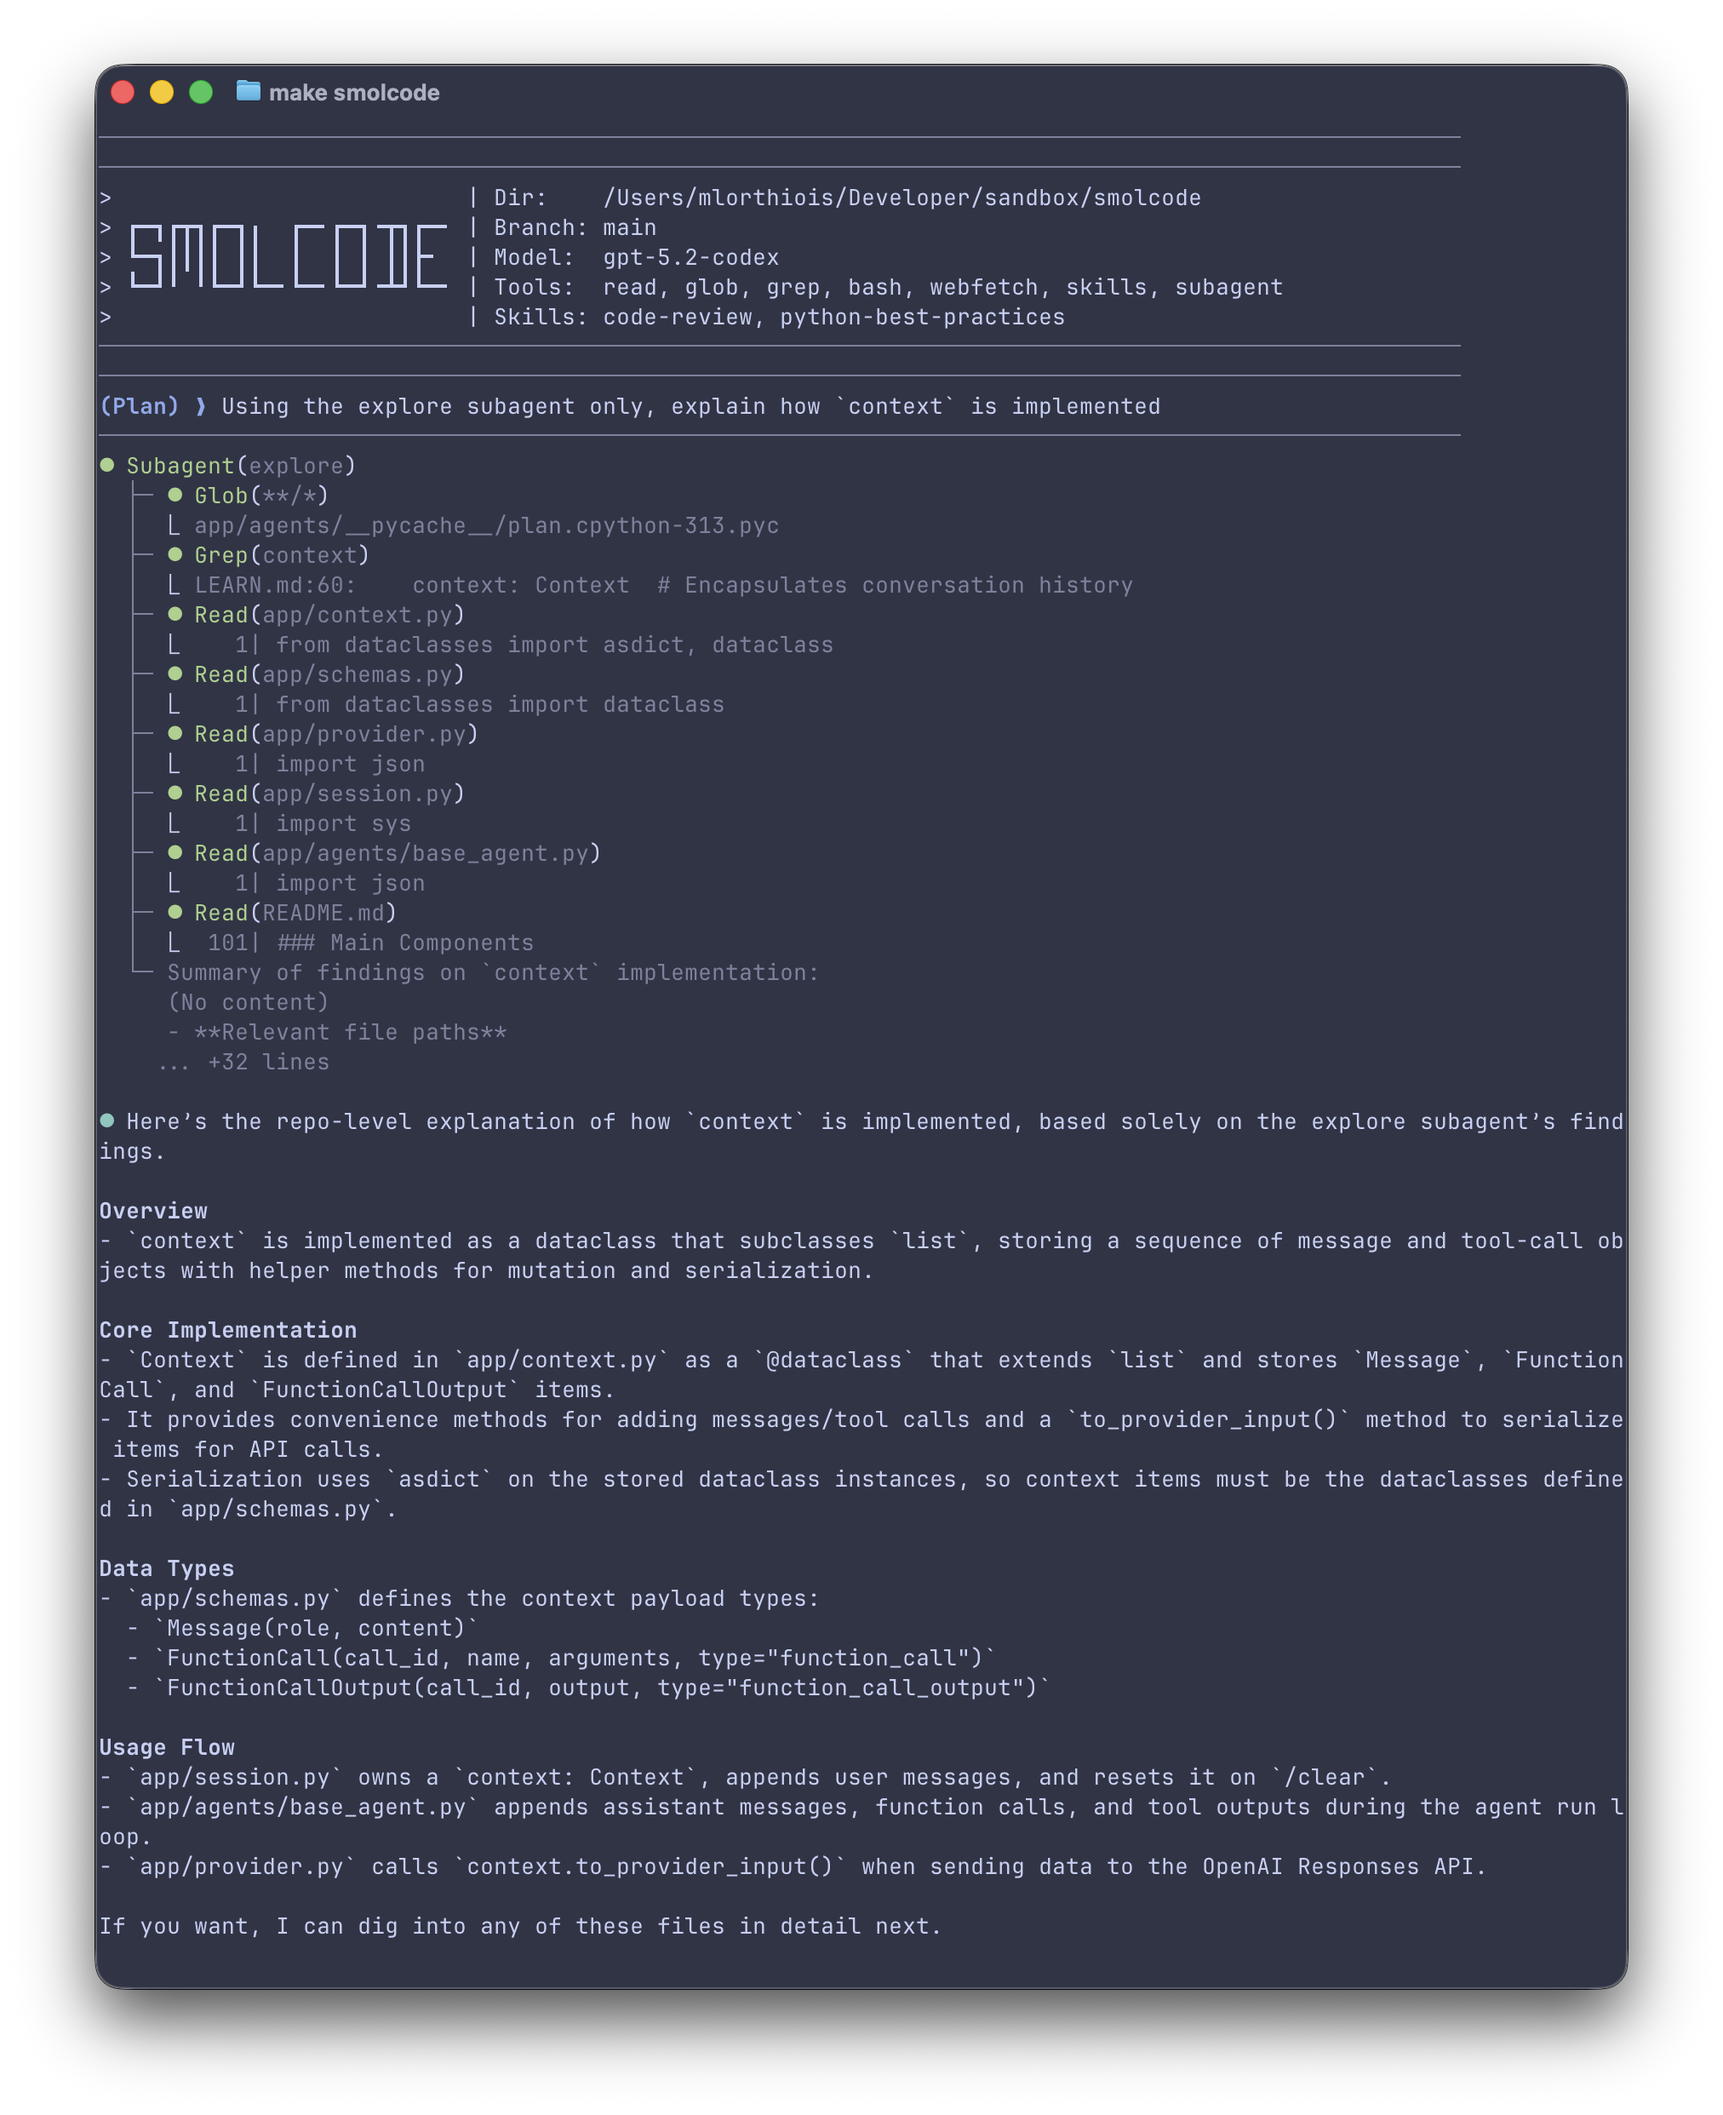
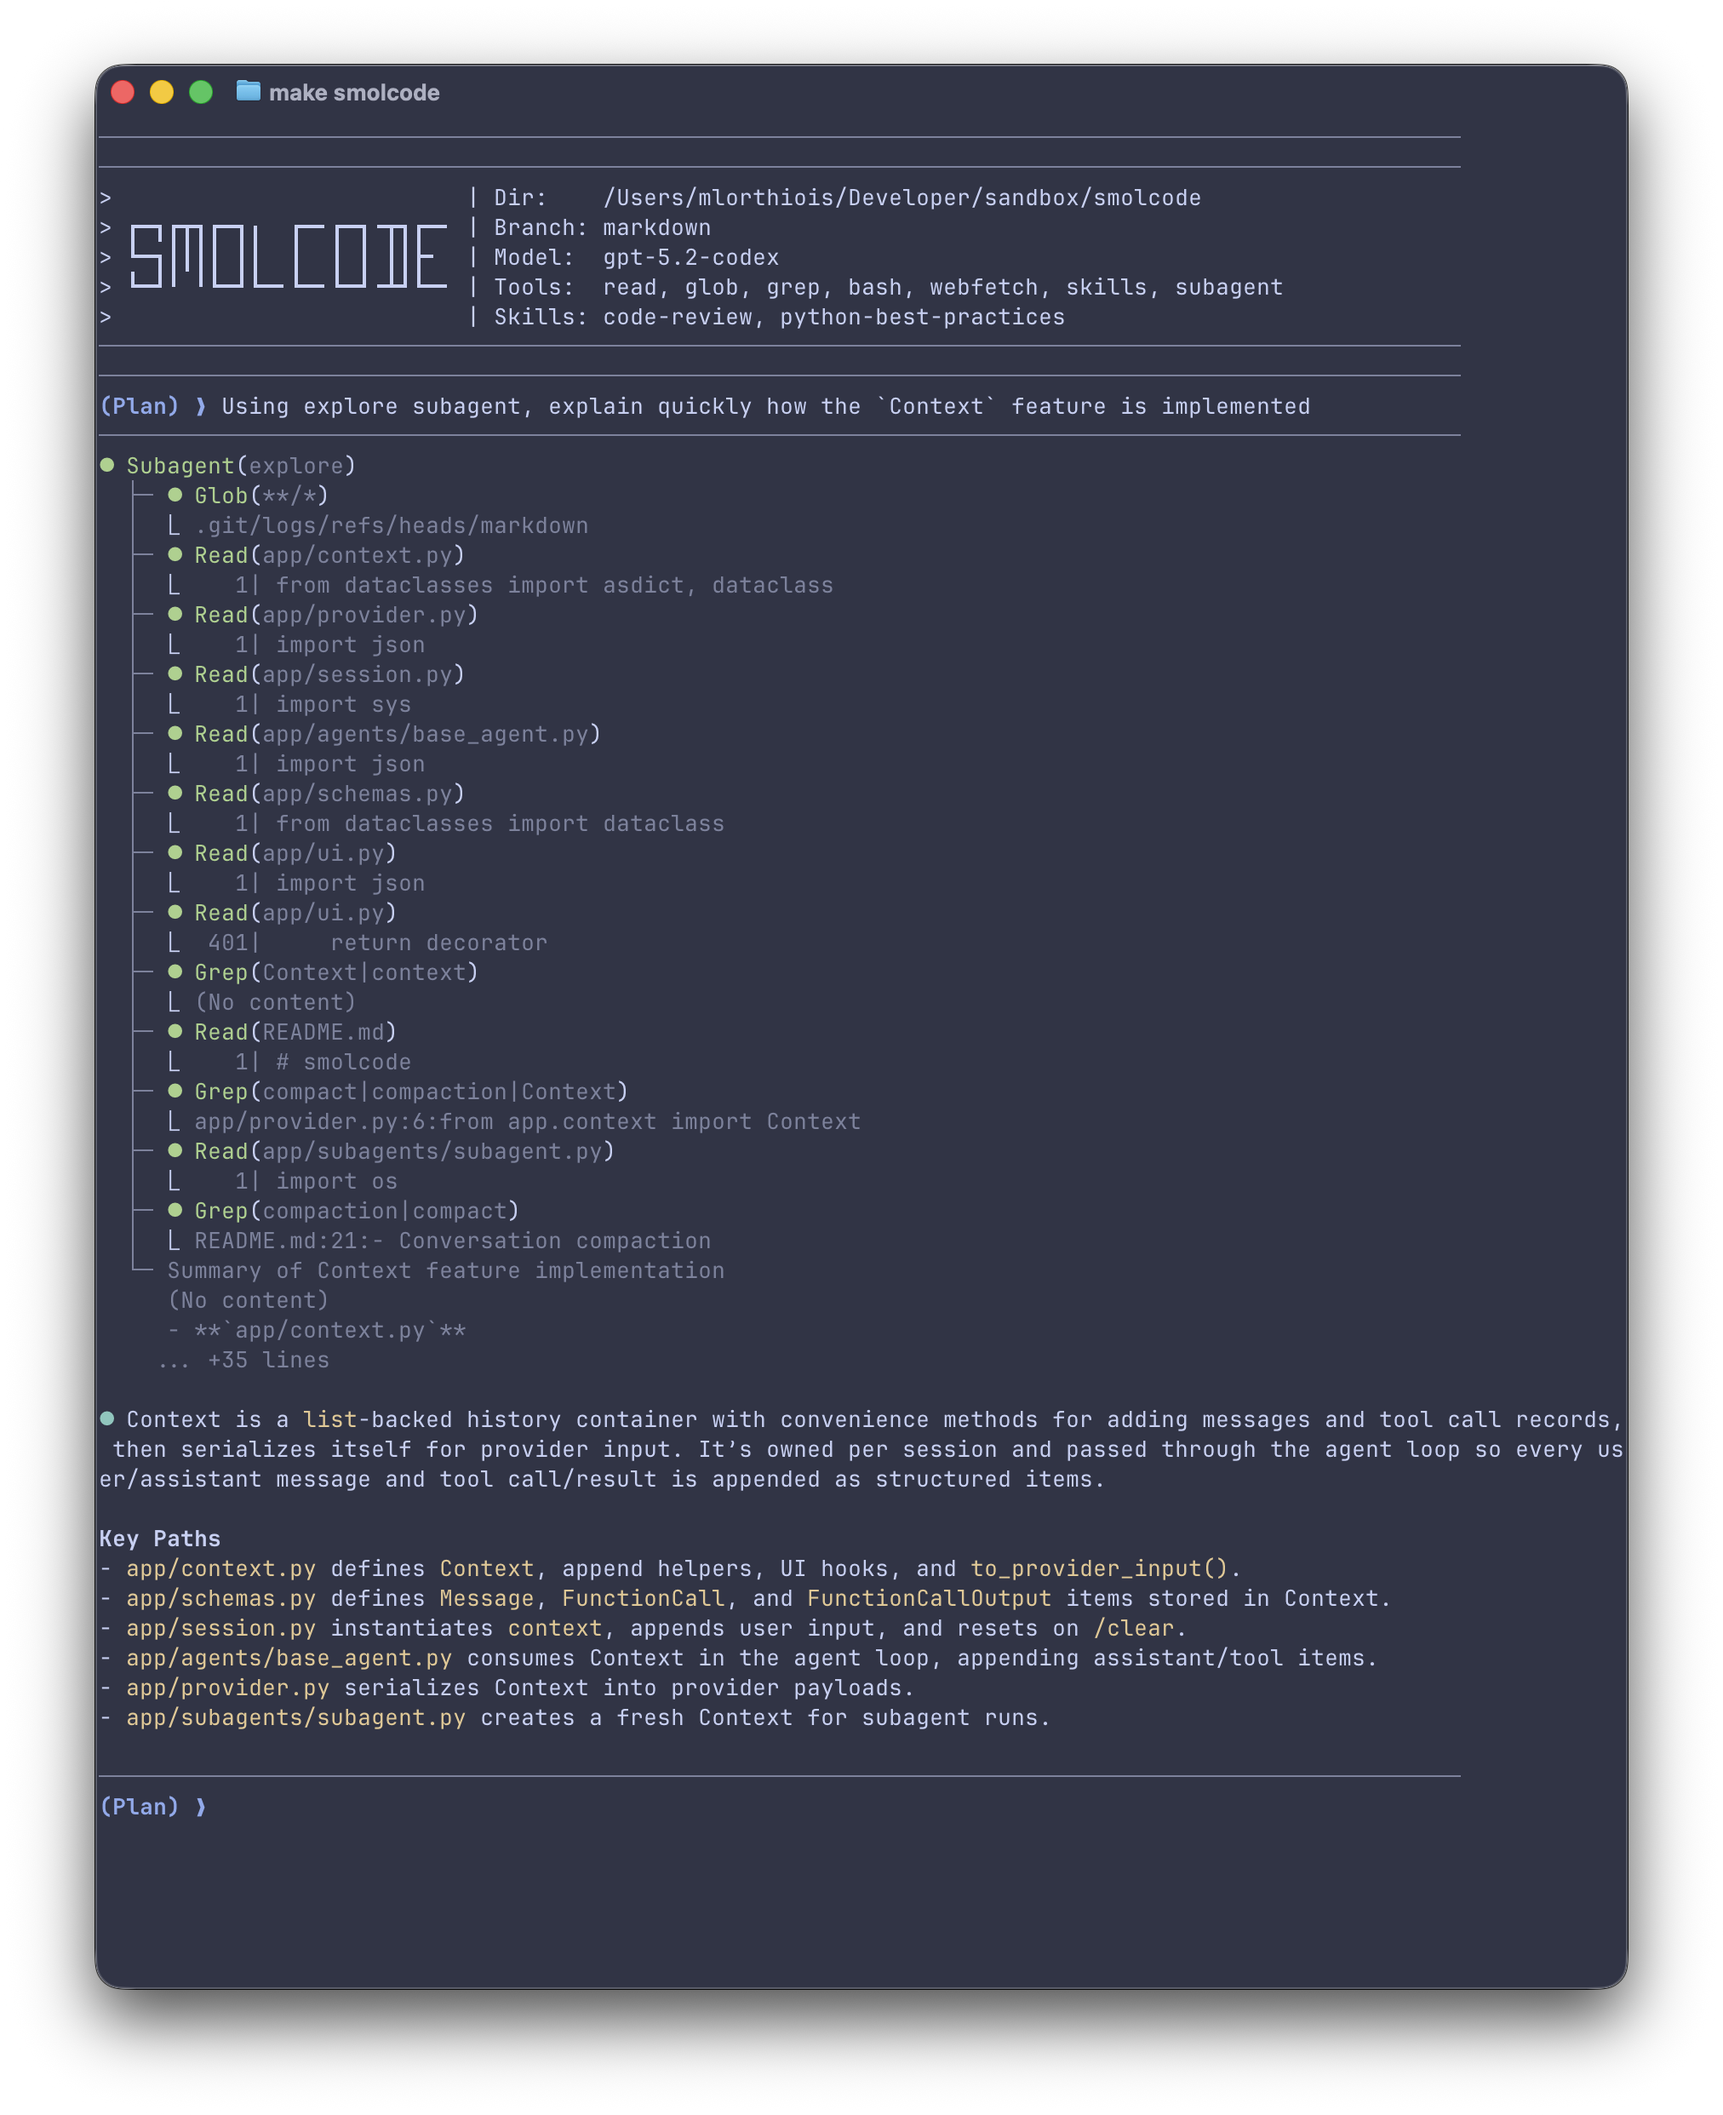
🎨: Improve Markdown parsing and rendering

diff --git a/app/ui.py b/app/ui.py
@@ -12,9 +12,10 @@ from typing import ParamSpec, Protocol, Self, TextIO, TypeVar
 
 from app.schemas import FunctionCall, FunctionCallOutput, UserInputResult
 
-RESET, BOLD, DIM, BLUE, CYAN, GREEN, YELLOW, RED = (
+RESET, BOLD, ITALIC, DIM, BLUE, CYAN, GREEN, YELLOW, RED = (
     "\033[0m",
     "\033[1m",
+    "\033[3m",
     "\033[2m",
     "\033[34m",
     "\033[36m",
@@ -235,7 +236,45 @@ class TerminalUI:
         self._out.write(text)
 
     def render_markdown(self, text: str) -> str:
-        return re.sub(r"\*\*(.+?)\*\*", f"{BOLD}\\1{RESET}", text)
+        def apply_inline_styles(line: str) -> str:
+            code_spans: list[str] = []
+
+            def stash_code(match: re.Match[str]) -> str:
+                code_spans.append(match.group(1))
+                return f"\0CODE{len(code_spans) - 1}\0"
+
+            line = re.sub(r"`([^`]+)`", stash_code, line)
+            line = re.sub(r"\*\*(.+?)\*\*", f"{BOLD}\\1{RESET}", line)
+            line = re.sub(
+                r"(?<!\*)\*(?!\*)(.+?)(?<!\*)\*(?!\*)",
+                f"{ITALIC}\\1{RESET}",
+                line,
+            )
+            line = re.sub(
+                r"(?<!_)_(?!_)(.+?)(?<!_)_(?!_)",
+                f"{ITALIC}\\1{RESET}",
+                line,
+            )
+
+            for index, code in enumerate(code_spans):
+                placeholder = f"\0CODE{index}\0"
+                line = line.replace(placeholder, f"{YELLOW}{code}{RESET}")
+
+            return line
+
+        rendered_lines: list[str] = []
+        for line in text.split("\n"):
+            match = re.match(r"^(#{1,6})\s+(.*)$", line)
+            if match:
+                level = len(match.group(1))
+                title_text = apply_inline_styles(match.group(2))
+                color = BLUE if level == 1 else CYAN if level == 2 else GREEN
+                rendered_lines.append(f"{BOLD}{color}{title_text}{RESET}")
+                continue
+
+            rendered_lines.append(apply_inline_styles(line))
+
+        return "\n".join(rendered_lines)
 
     def error(self, event: TextEvent) -> None:
         self.print(f"{RED}⏺ Error: {event.text}{RESET}\n")

diff --git a/tests/test_ui_markdown.py b/tests/test_ui_markdown.py
@@ -1,0 +1,38 @@
+import unittest
+
+from app.ui import BOLD, BLUE, CYAN, GREEN, ITALIC, RESET, TerminalUI, YELLOW
+
+
+class TestRenderMarkdown(unittest.TestCase):
+    def test_inline_markdown_examples(self) -> None:
+        ui = TerminalUI()
+        cases = [
+            ("**bold**", f"{BOLD}bold{RESET}"),
+            ("*italic*", f"{ITALIC}italic{RESET}"),
+            ("_italic_", f"{ITALIC}italic{RESET}"),
+            ("`code`", f"{YELLOW}code{RESET}"),
+            (
+                "Mix **bold** and `code`",
+                f"Mix {BOLD}bold{RESET} and {YELLOW}code{RESET}",
+            ),
+        ]
+
+        for source, expected in cases:
+            with self.subTest(source=source):
+                self.assertEqual(ui.render_markdown(source), expected)
+
+    def test_heading_examples(self) -> None:
+        ui = TerminalUI()
+        cases = [
+            ("# Title", f"{BOLD}{BLUE}Title{RESET}"),
+            ("## Subtitle", f"{BOLD}{CYAN}Subtitle{RESET}"),
+            ("### Section", f"{BOLD}{GREEN}Section{RESET}"),
+        ]
+
+        for source, expected in cases:
+            with self.subTest(source=source):
+                self.assertEqual(ui.render_markdown(source), expected)
+
+
+if __name__ == "__main__":
+    unittest.main()
